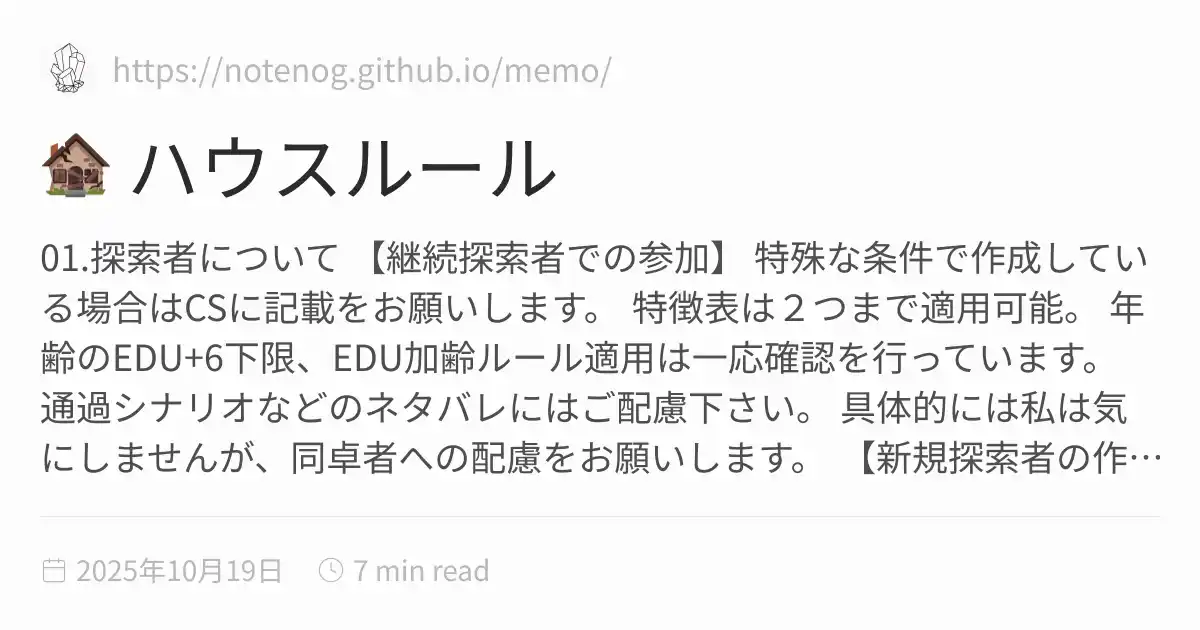
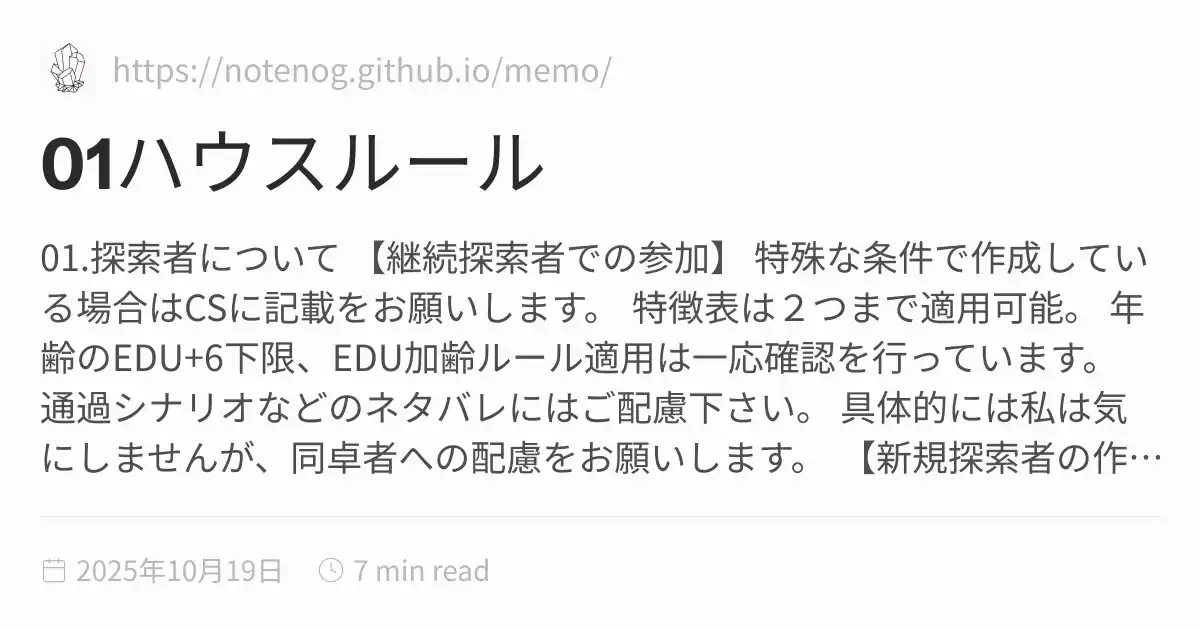
記事を更新

Changed region(s): [[0.0308, 0.2111, 0.4625, 0.3317]]

diff --git a/docs/CoC/01CoC.html b/docs/CoC/01CoC.html
@@ -1,5 +1,5 @@
 <!DOCTYPE html>
-<html lang="ja" dir="ltr"><head><title>🏚 ハウスルール</title><meta charset="utf-8"/><link rel="preconnect" href="https://fonts.googleapis.com"/><link rel="preconnect" href="https://fonts.gstatic.com"/><link rel="stylesheet" href="https://fonts.googleapis.com/css2?family=Schibsted Grotesk:wght@400;700&amp;family=Noto Sans JP:ital,wght@0,400;0,600;1,400;1,600&amp;family=IBM Plex Mono:wght@400;600&amp;display=swap"/><link rel="preconnect" href="https://cdnjs.cloudflare.com" crossorigin="anonymous"/><meta name="viewport" content="width=device-width, initial-scale=1.0"/><meta name="og:site_name" content="memo"/><meta property="og:title" content="🏚 ハウスルール"/><meta property="og:type" content="website"/><meta name="twitter:card" content="summary_large_image"/><meta name="twitter:title" content="🏚 ハウスルール"/><meta name="twitter:description" content="01.探索者について 【継続探索者での参加】 特殊な条件で作成している場合はCSに記載をお願いします。 特徴表は２つまで適用可能。 年齢のEDU+6下限、EDU加齢ルール適用は一応確認を行っています。 通過シナリオなどのネタバレにはご配慮下さい。 具体的には私は気にしませんが、同卓者への配慮をお願いします。 【新規探索者の作成】 基本ルルブ、2010、2015の職業ベースから選択。ベースはCS内に記載下さい。職業ベースに囚われない技能振りの探索者もOKとしますが、基本的には職業ベースでとることを推奨します。 能力値の一括振り直し、同ダイスステータス値の入れ替え・3pt移動可。上記の回数は良心..."/><meta property="og:description" content="01.探索者について 【継続探索者での参加】 特殊な条件で作成している場合はCSに記載をお願いします。 特徴表は２つまで適用可能。 年齢のEDU+6下限、EDU加齢ルール適用は一応確認を行っています。 通過シナリオなどのネタバレにはご配慮下さい。 具体的には私は気にしませんが、同卓者への配慮をお願いします。 【新規探索者の作成】 基本ルルブ、2010、2015の職業ベースから選択。ベースはCS内に記載下さい。職業ベースに囚われない技能振りの探索者もOKとしますが、基本的には職業ベースでとることを推奨します。 能力値の一括振り直し、同ダイスステータス値の入れ替え・3pt移動可。上記の回数は良心..."/><meta property="og:image:alt" content="01.探索者について 【継続探索者での参加】 特殊な条件で作成している場合はCSに記載をお願いします。 特徴表は２つまで適用可能。 年齢のEDU+6下限、EDU加齢ルール適用は一応確認を行っています。 通過シナリオなどのネタバレにはご配慮下さい。 具体的には私は気にしませんが、同卓者への配慮をお願いします。 【新規探索者の作成】 基本ルルブ、2010、2015の職業ベースから選択。ベースはCS内に記載下さい。職業ベースに囚われない技能振りの探索者もOKとしますが、基本的には職業ベースでとることを推奨します。 能力値の一括振り直し、同ダイスステータス値の入れ替え・3pt移動可。上記の回数は良心..."/><meta property="twitter:domain" content="https://notenog.github.io/memo/"/><meta property="og:url" content="https://https//notenog.github.io/memo/CoC/01CoC"/><meta property="twitter:url" content="https://https//notenog.github.io/memo/CoC/01CoC"/><link rel="icon" href="../static/icon.png"/><meta name="description" content="01.探索者について 【継続探索者での参加】 特殊な条件で作成している場合はCSに記載をお願いします。 特徴表は２つまで適用可能。 年齢のEDU+6下限、EDU加齢ルール適用は一応確認を行っています。 通過シナリオなどのネタバレにはご配慮下さい。 具体的には私は気にしませんが、同卓者への配慮をお願いします。 【新規探索者の作成】 基本ルルブ、2010、2015の職業ベースから選択。ベースはCS内に記載下さい。職業ベースに囚われない技能振りの探索者もOKとしますが、基本的には職業ベースでとることを推奨します。 能力値の一括振り直し、同ダイスステータス値の入れ替え・3pt移動可。上記の回数は良心..."/><meta name="generator" content="Quartz"/><link href="../index.css" rel="stylesheet" type="text/css" spa-preserve/><style>.expand-button {
+<html lang="ja" dir="ltr"><head><title>01ハウスルール</title><meta charset="utf-8"/><link rel="preconnect" href="https://fonts.googleapis.com"/><link rel="preconnect" href="https://fonts.gstatic.com"/><link rel="stylesheet" href="https://fonts.googleapis.com/css2?family=Schibsted Grotesk:wght@400;700&amp;family=Noto Sans JP:ital,wght@0,400;0,600;1,400;1,600&amp;family=IBM Plex Mono:wght@400;600&amp;display=swap"/><link rel="preconnect" href="https://cdnjs.cloudflare.com" crossorigin="anonymous"/><meta name="viewport" content="width=device-width, initial-scale=1.0"/><meta name="og:site_name" content="memo"/><meta property="og:title" content="01ハウスルール"/><meta property="og:type" content="website"/><meta name="twitter:card" content="summary_large_image"/><meta name="twitter:title" content="01ハウスルール"/><meta name="twitter:description" content="01.探索者について 【継続探索者での参加】 特殊な条件で作成している場合はCSに記載をお願いします。 特徴表は２つまで適用可能。 年齢のEDU+6下限、EDU加齢ルール適用は一応確認を行っています。 通過シナリオなどのネタバレにはご配慮下さい。 具体的には私は気にしませんが、同卓者への配慮をお願いします。 【新規探索者の作成】 基本ルルブ、2010、2015の職業ベースから選択。ベースはCS内に記載下さい。職業ベースに囚われない技能振りの探索者もOKとしますが、基本的には職業ベースでとることを推奨します。 能力値の一括振り直し、同ダイスステータス値の入れ替え・3pt移動可。上記の回数は良心..."/><meta property="og:description" content="01.探索者について 【継続探索者での参加】 特殊な条件で作成している場合はCSに記載をお願いします。 特徴表は２つまで適用可能。 年齢のEDU+6下限、EDU加齢ルール適用は一応確認を行っています。 通過シナリオなどのネタバレにはご配慮下さい。 具体的には私は気にしませんが、同卓者への配慮をお願いします。 【新規探索者の作成】 基本ルルブ、2010、2015の職業ベースから選択。ベースはCS内に記載下さい。職業ベースに囚われない技能振りの探索者もOKとしますが、基本的には職業ベースでとることを推奨します。 能力値の一括振り直し、同ダイスステータス値の入れ替え・3pt移動可。上記の回数は良心..."/><meta property="og:image:alt" content="01.探索者について 【継続探索者での参加】 特殊な条件で作成している場合はCSに記載をお願いします。 特徴表は２つまで適用可能。 年齢のEDU+6下限、EDU加齢ルール適用は一応確認を行っています。 通過シナリオなどのネタバレにはご配慮下さい。 具体的には私は気にしませんが、同卓者への配慮をお願いします。 【新規探索者の作成】 基本ルルブ、2010、2015の職業ベースから選択。ベースはCS内に記載下さい。職業ベースに囚われない技能振りの探索者もOKとしますが、基本的には職業ベースでとることを推奨します。 能力値の一括振り直し、同ダイスステータス値の入れ替え・3pt移動可。上記の回数は良心..."/><meta property="twitter:domain" content="https://notenog.github.io/memo/"/><meta property="og:url" content="https://https//notenog.github.io/memo/CoC/01CoC"/><meta property="twitter:url" content="https://https//notenog.github.io/memo/CoC/01CoC"/><link rel="icon" href="../static/icon.png"/><meta name="description" content="01.探索者について 【継続探索者での参加】 特殊な条件で作成している場合はCSに記載をお願いします。 特徴表は２つまで適用可能。 年齢のEDU+6下限、EDU加齢ルール適用は一応確認を行っています。 通過シナリオなどのネタバレにはご配慮下さい。 具体的には私は気にしませんが、同卓者への配慮をお願いします。 【新規探索者の作成】 基本ルルブ、2010、2015の職業ベースから選択。ベースはCS内に記載下さい。職業ベースに囚われない技能振りの探索者もOKとしますが、基本的には職業ベースでとることを推奨します。 能力値の一括振り直し、同ダイスステータス値の入れ替え・3pt移動可。上記の回数は良心..."/><meta name="generator" content="Quartz"/><link href="../index.css" rel="stylesheet" type="text/css" spa-preserve/><style>.expand-button {
   position: absolute;
   display: flex;
   float: right;
@@ -116,7 +116,7 @@ pre:hover > .expand-button {
   padding: 0 12px;
   font-size: 14px;
 }
[2 lines of base64/hex data omitted]
 <h1 id="01探索者について">01.探索者について<a role="anchor" aria-hidden="true" tabindex="-1" data-no-popover="true" href="#01探索者について" class="internal"><svg width="18" height="18" viewBox="0 0 24 24" fill="none" stroke="currentColor" stroke-width="2" stroke-linecap="round" stroke-linejoin="round"><path d="M10 13a5 5 0 0 0 7.54.54l3-3a5 5 0 0 0-7.07-7.07l-1.72 1.71"></path><path d="M14 11a5 5 0 0 0-7.54-.54l-3 3a5 5 0 0 0 7.07 7.07l1.71-1.71"></path></svg></a></h1>
 <h3 id="継続探索者での参加">【継続探索者での参加】<a role="anchor" aria-hidden="true" tabindex="-1" data-no-popover="true" href="#継続探索者での参加" class="internal"><svg width="18" height="18" viewBox="0 0 24 24" fill="none" stroke="currentColor" stroke-width="2" stroke-linecap="round" stroke-linejoin="round"><path d="M10 13a5 5 0 0 0 7.54.54l3-3a5 5 0 0 0-7.07-7.07l-1.72 1.71"></path><path d="M14 11a5 5 0 0 0-7.54-.54l-3 3a5 5 0 0 0 7.07 7.07l1.71-1.71"></path></svg></a></h3>
 <ul>

diff --git a/docs/CoC/02CoC_battle.html b/docs/CoC/02CoC_battle.html
@@ -1,5 +1,5 @@
 <!DOCTYPE html>
-<html lang="ja" dir="ltr"><head><title>⚔ 戦闘ルール</title><meta charset="utf-8"/><link rel="preconnect" href="https://fonts.googleapis.com"/><link rel="preconnect" href="https://fonts.gstatic.com"/><link rel="stylesheet" href="https://fonts.googleapis.com/css2?family=Schibsted Grotesk:wght@400;700&amp;family=Noto Sans JP:ital,wght@0,400;0,600;1,400;1,600&amp;family=IBM Plex Mono:wght@400;600&amp;display=swap"/><link rel="preconnect" href="https://cdnjs.cloudflare.com" crossorigin="anonymous"/><meta name="viewport" content="width=device-width, initial-scale=1.0"/><meta name="og:site_name" content="memo"/><meta property="og:title" content="⚔ 戦闘ルール"/><meta property="og:type" content="website"/><meta name="twitter:card" content="summary_large_image"/><meta name="twitter:title" content="⚔ 戦闘ルール"/><meta name="twitter:description" content="基本ルルブ・2010・2015に記載のある戦闘ルールに準拠・優先します。 01.戦闘について 【基本的な流れ】 攻撃と回避は両立しない。１R中どちらかのみの行動になる。 回避のオプションを採用する。(基本ルルブp150) 1Rにつき3回までの攻撃に回避が可能とし、最初は＜回避＞の値、二度目は＜回避2/3＞、三度目は＜回避1/3＞の値で試みることが出来る。数値は切り上げ。 １つの攻撃に３回回避が出来る訳ではない。一度回避に失敗した時点でダメージロールを行う。 ただし上記の通り、既に攻撃を行ってる場合回避は一度も行えない。逆も同様。 受け流しはあらゆる行動と両立する。1Rに一度可能。(１R内に攻..."/><meta property="og:description" content="基本ルルブ・2010・2015に記載のある戦闘ルールに準拠・優先します。 01.戦闘について 【基本的な流れ】 攻撃と回避は両立しない。１R中どちらかのみの行動になる。 回避のオプションを採用する。(基本ルルブp150) 1Rにつき3回までの攻撃に回避が可能とし、最初は＜回避＞の値、二度目は＜回避2/3＞、三度目は＜回避1/3＞の値で試みることが出来る。数値は切り上げ。 １つの攻撃に３回回避が出来る訳ではない。一度回避に失敗した時点でダメージロールを行う。 ただし上記の通り、既に攻撃を行ってる場合回避は一度も行えない。逆も同様。 受け流しはあらゆる行動と両立する。1Rに一度可能。(１R内に攻..."/><meta property="og:image:alt" content="基本ルルブ・2010・2015に記載のある戦闘ルールに準拠・優先します。 01.戦闘について 【基本的な流れ】 攻撃と回避は両立しない。１R中どちらかのみの行動になる。 回避のオプションを採用する。(基本ルルブp150) 1Rにつき3回までの攻撃に回避が可能とし、最初は＜回避＞の値、二度目は＜回避2/3＞、三度目は＜回避1/3＞の値で試みることが出来る。数値は切り上げ。 １つの攻撃に３回回避が出来る訳ではない。一度回避に失敗した時点でダメージロールを行う。 ただし上記の通り、既に攻撃を行ってる場合回避は一度も行えない。逆も同様。 受け流しはあらゆる行動と両立する。1Rに一度可能。(１R内に攻..."/><meta property="twitter:domain" content="https://notenog.github.io/memo/"/><meta property="og:url" content="https://https//notenog.github.io/memo/CoC/02CoC_battle"/><meta property="twitter:url" content="https://https//notenog.github.io/memo/CoC/02CoC_battle"/><link rel="icon" href="../static/icon.png"/><meta name="description" content="基本ルルブ・2010・2015に記載のある戦闘ルールに準拠・優先します。 01.戦闘について 【基本的な流れ】 攻撃と回避は両立しない。１R中どちらかのみの行動になる。 回避のオプションを採用する。(基本ルルブp150) 1Rにつき3回までの攻撃に回避が可能とし、最初は＜回避＞の値、二度目は＜回避2/3＞、三度目は＜回避1/3＞の値で試みることが出来る。数値は切り上げ。 １つの攻撃に３回回避が出来る訳ではない。一度回避に失敗した時点でダメージロールを行う。 ただし上記の通り、既に攻撃を行ってる場合回避は一度も行えない。逆も同様。 受け流しはあらゆる行動と両立する。1Rに一度可能。(１R内に攻..."/><meta name="generator" content="Quartz"/><link href="../index.css" rel="stylesheet" type="text/css" spa-preserve/><style>.expand-button {
+<html lang="ja" dir="ltr"><head><title>02戦闘ルール</title><meta charset="utf-8"/><link rel="preconnect" href="https://fonts.googleapis.com"/><link rel="preconnect" href="https://fonts.gstatic.com"/><link rel="stylesheet" href="https://fonts.googleapis.com/css2?family=Schibsted Grotesk:wght@400;700&amp;family=Noto Sans JP:ital,wght@0,400;0,600;1,400;1,600&amp;family=IBM Plex Mono:wght@400;600&amp;display=swap"/><link rel="preconnect" href="https://cdnjs.cloudflare.com" crossorigin="anonymous"/><meta name="viewport" content="width=device-width, initial-scale=1.0"/><meta name="og:site_name" content="memo"/><meta property="og:title" content="02戦闘ルール"/><meta property="og:type" content="website"/><meta name="twitter:card" content="summary_large_image"/><meta name="twitter:title" content="02戦闘ルール"/><meta name="twitter:description" content="基本ルルブ・2010・2015に記載のある戦闘ルールに準拠・優先します。 01.戦闘について 【基本的な流れ】 攻撃と回避は両立しない。１R中どちらかのみの行動になる。 回避のオプションを採用する。(基本ルルブp150) 1Rにつき3回までの攻撃に回避が可能とし、最初は＜回避＞の値、二度目は＜回避2/3＞、三度目は＜回避1/3＞の値で試みることが出来る。数値は切り上げ。 １つの攻撃に３回回避が出来る訳ではない。一度回避に失敗した時点でダメージロールを行う。 ただし上記の通り、既に攻撃を行ってる場合回避は一度も行えない。逆も同様。 受け流しはあらゆる行動と両立する。1Rに一度可能。(１R内に攻..."/><meta property="og:description" content="基本ルルブ・2010・2015に記載のある戦闘ルールに準拠・優先します。 01.戦闘について 【基本的な流れ】 攻撃と回避は両立しない。１R中どちらかのみの行動になる。 回避のオプションを採用する。(基本ルルブp150) 1Rにつき3回までの攻撃に回避が可能とし、最初は＜回避＞の値、二度目は＜回避2/3＞、三度目は＜回避1/3＞の値で試みることが出来る。数値は切り上げ。 １つの攻撃に３回回避が出来る訳ではない。一度回避に失敗した時点でダメージロールを行う。 ただし上記の通り、既に攻撃を行ってる場合回避は一度も行えない。逆も同様。 受け流しはあらゆる行動と両立する。1Rに一度可能。(１R内に攻..."/><meta property="og:image:alt" content="基本ルルブ・2010・2015に記載のある戦闘ルールに準拠・優先します。 01.戦闘について 【基本的な流れ】 攻撃と回避は両立しない。１R中どちらかのみの行動になる。 回避のオプションを採用する。(基本ルルブp150) 1Rにつき3回までの攻撃に回避が可能とし、最初は＜回避＞の値、二度目は＜回避2/3＞、三度目は＜回避1/3＞の値で試みることが出来る。数値は切り上げ。 １つの攻撃に３回回避が出来る訳ではない。一度回避に失敗した時点でダメージロールを行う。 ただし上記の通り、既に攻撃を行ってる場合回避は一度も行えない。逆も同様。 受け流しはあらゆる行動と両立する。1Rに一度可能。(１R内に攻..."/><meta property="twitter:domain" content="https://notenog.github.io/memo/"/><meta property="og:url" content="https://https//notenog.github.io/memo/CoC/02CoC_battle"/><meta property="twitter:url" content="https://https//notenog.github.io/memo/CoC/02CoC_battle"/><link rel="icon" href="../static/icon.png"/><meta name="description" content="基本ルルブ・2010・2015に記載のある戦闘ルールに準拠・優先します。 01.戦闘について 【基本的な流れ】 攻撃と回避は両立しない。１R中どちらかのみの行動になる。 回避のオプションを採用する。(基本ルルブp150) 1Rにつき3回までの攻撃に回避が可能とし、最初は＜回避＞の値、二度目は＜回避2/3＞、三度目は＜回避1/3＞の値で試みることが出来る。数値は切り上げ。 １つの攻撃に３回回避が出来る訳ではない。一度回避に失敗した時点でダメージロールを行う。 ただし上記の通り、既に攻撃を行ってる場合回避は一度も行えない。逆も同様。 受け流しはあらゆる行動と両立する。1Rに一度可能。(１R内に攻..."/><meta name="generator" content="Quartz"/><link href="../index.css" rel="stylesheet" type="text/css" spa-preserve/><style>.expand-button {
   position: absolute;
   display: flex;
   float: right;
@@ -116,7 +116,7 @@ pre:hover > .expand-button {
   padding: 0 12px;
   font-size: 14px;
 }
[2 lines of base64/hex data omitted]
 <blockquote class="callout warning is-collapsible is-collapsed" data-callout="warning" data-callout-fold>
 <div class="callout-title">
                   <div class="callout-icon"></div>

diff --git a/docs/CoC/index.html b/docs/CoC/index.html
@@ -116,6 +116,6 @@ pre:hover > .expand-button {
   padding: 0 12px;
   font-size: 14px;
 }
[2 lines of base64/hex data omitted]
 </script><script type="module">function f(i,e){if(!i)return;function r(o){o.target===this&&(o.preventDefault(),o.stopPropagation(),e())}function t(o){o.key.startsWith("Esc")&&(o.preventDefault(),e())}i?.addEventListener("click",r),window.addCleanup(()=>i?.removeEventListener("click",r)),document.addEventListener("keydown",t),window.addCleanup(()=>document.removeEventListener("keydown",t))}function y(i){for(;i.firstChild;)i.removeChild(i.firstChild)}var h=class{constructor(e,r){this.container=e;this.content=r;this.setupEventListeners(),this.setupNavigationControls(),this.resetTransform()}isDragging=!1;startPan={x:0,y:0};currentPan={x:0,y:0};scale=1;MIN_SCALE=.5;MAX_SCALE=3;cleanups=[];setupEventListeners(){let e=this.onMouseDown.bind(this),r=this.onMouseMove.bind(this),t=this.onMouseUp.bind(this),o=this.resetTransform.bind(this);this.container.addEventListener("mousedown",e),document.addEventListener("mousemove",r),document.addEventListener("mouseup",t),window.addEventListener("resize",o),this.cleanups.push(()=>this.container.removeEventListener("mousedown",e),()=>document.removeEventListener("mousemove",r),()=>document.removeEventListener("mouseup",t),()=>window.removeEventListener("resize",o))}cleanup(){for(let e of this.cleanups)e()}setupNavigationControls(){let e=document.createElement("div");e.className="mermaid-controls";let r=this.createButton("+",()=>this.zoom(.1)),t=this.createButton("-",()=>this.zoom(-.1)),o=this.createButton("Reset",()=>this.resetTransform());e.appendChild(t),e.appendChild(o),e.appendChild(r),this.container.appendChild(e)}createButton(e,r){let t=document.createElement("button");return t.textContent=e,t.className="mermaid-control-button",t.addEventListener("click",r),window.addCleanup(()=>t.removeEventListener("click",r)),t}onMouseDown(e){e.button===0&&(this.isDragging=!0,this.startPan={x:e.clientX-this.currentPan.x,y:e.clientY-this.currentPan.y},this.container.style.cursor="grabbing")}onMouseMove(e){this.isDragging&&(e.preventDefault(),this.currentPan={x:e.clientX-this.startPan.x,y:e.clientY-this.startPan.y},this.updateTransform())}onMouseUp(){this.isDragging=!1,this.container.style.cursor="grab"}zoom(e){let r=Math.min(Math.max(this.scale+e,this.MIN_SCALE),this.MAX_SCALE),t=this.content.getBoundingClientRect(),o=t.width/2,n=t.height/2,c=r-this.scale;this.currentPan.x-=o*c,this.currentPan.y-=n*c,this.scale=r,this.updateTransform()}updateTransform(){this.content.style.transform=`translate(${this.currentPan.x}px, ${this.currentPan.y}px) scale(${this.scale})`}resetTransform(){this.scale=1;let e=this.content.querySelector("svg");this.currentPan={x:e.getBoundingClientRect().width/2,y:e.getBoundingClientRect().height/2},this.updateTransform()}},C=["--secondary","--tertiary","--gray","--light","--lightgray","--highlight","--dark","--darkgray","--codeFont"],E;document.addEventListener("nav",async()=>{let e=document.querySelector(".center").querySelectorAll("code.mermaid");if(e.length===0)return;E||=await import("https://cdnjs.cloudflare.com/ajax/libs/mermaid/11.4.0/mermaid.esm.min.mjs");let r=E.default,t=new WeakMap;for(let n of e)t.set(n,n.innerText);async function o(){for(let s of e){s.removeAttribute("data-processed");let a=t.get(s);a&&(s.innerHTML=a)}let n=C.reduce((s,a)=>(s[a]=window.getComputedStyle(document.documentElement).getPropertyValue(a),s),{}),c=document.documentElement.getAttribute("saved-theme")==="dark";r.initialize({startOnLoad:!1,securityLevel:"loose",theme:c?"dark":"base",themeVariables:{fontFamily:n["--codeFont"],primaryColor:n["--light"],primaryTextColor:n["--darkgray"],primaryBorderColor:n["--tertiary"],lineColor:n["--darkgray"],secondaryColor:n["--secondary"],tertiaryColor:n["--tertiary"],clusterBkg:n["--light"],edgeLabelBackground:n["--highlight"]}}),await r.run({nodes:e})}await o(),document.addEventListener("themechange",o),window.addCleanup(()=>document.removeEventListener("themechange",o));for(let n=0;n<e.length;n++){let v=function(){let g=l.querySelector("#mermaid-space"),m=l.querySelector(".mermaid-content");if(!m)return;y(m);let w=c.querySelector("svg").cloneNode(!0);m.appendChild(w),l.classList.add("active"),g.style.cursor="grab",u=new h(g,m)},M=function(){l.classList.remove("active"),u?.cleanup(),u=null},c=e[n],s=c.parentElement,a=s.querySelector(".clipboard-button"),d=s.querySelector(".expand-button"),p=window.getComputedStyle(a),L=a.offsetWidth+parseFloat(p.marginLeft||"0")+parseFloat(p.marginRight||"0");d.style.right=`calc(${L}px + 0.3rem)`,s.prepend(d);let l=s.querySelector("#mermaid-container");if(!l)return;let u=null;d.addEventListener("click",v),f(l,M),window.addCleanup(()=>{u?.cleanup(),d.removeEventListener("click",v)})}});
 </script><script src="https://cdn.jsdelivr.net/npm/katex@0.16.11/dist/contrib/copy-tex.min.js" type="application/javascript"></script><script src="../postscript.js" type="module"></script></html>

diff --git a/content/CoC/01CoC.md b/content/CoC/01CoC.md
@@ -1,5 +1,5 @@
 ---
-title: "🏚 ハウスルール"
+title: 01ハウスルール
 draft: false
 ---
 

diff --git a/content/CoC/02CoC_battle.md b/content/CoC/02CoC_battle.md
@@ -1,5 +1,5 @@
 ---
-title: "⚔ 戦闘ルール"
+title: 02戦闘ルール
 draft: false
 ---
 <br>
